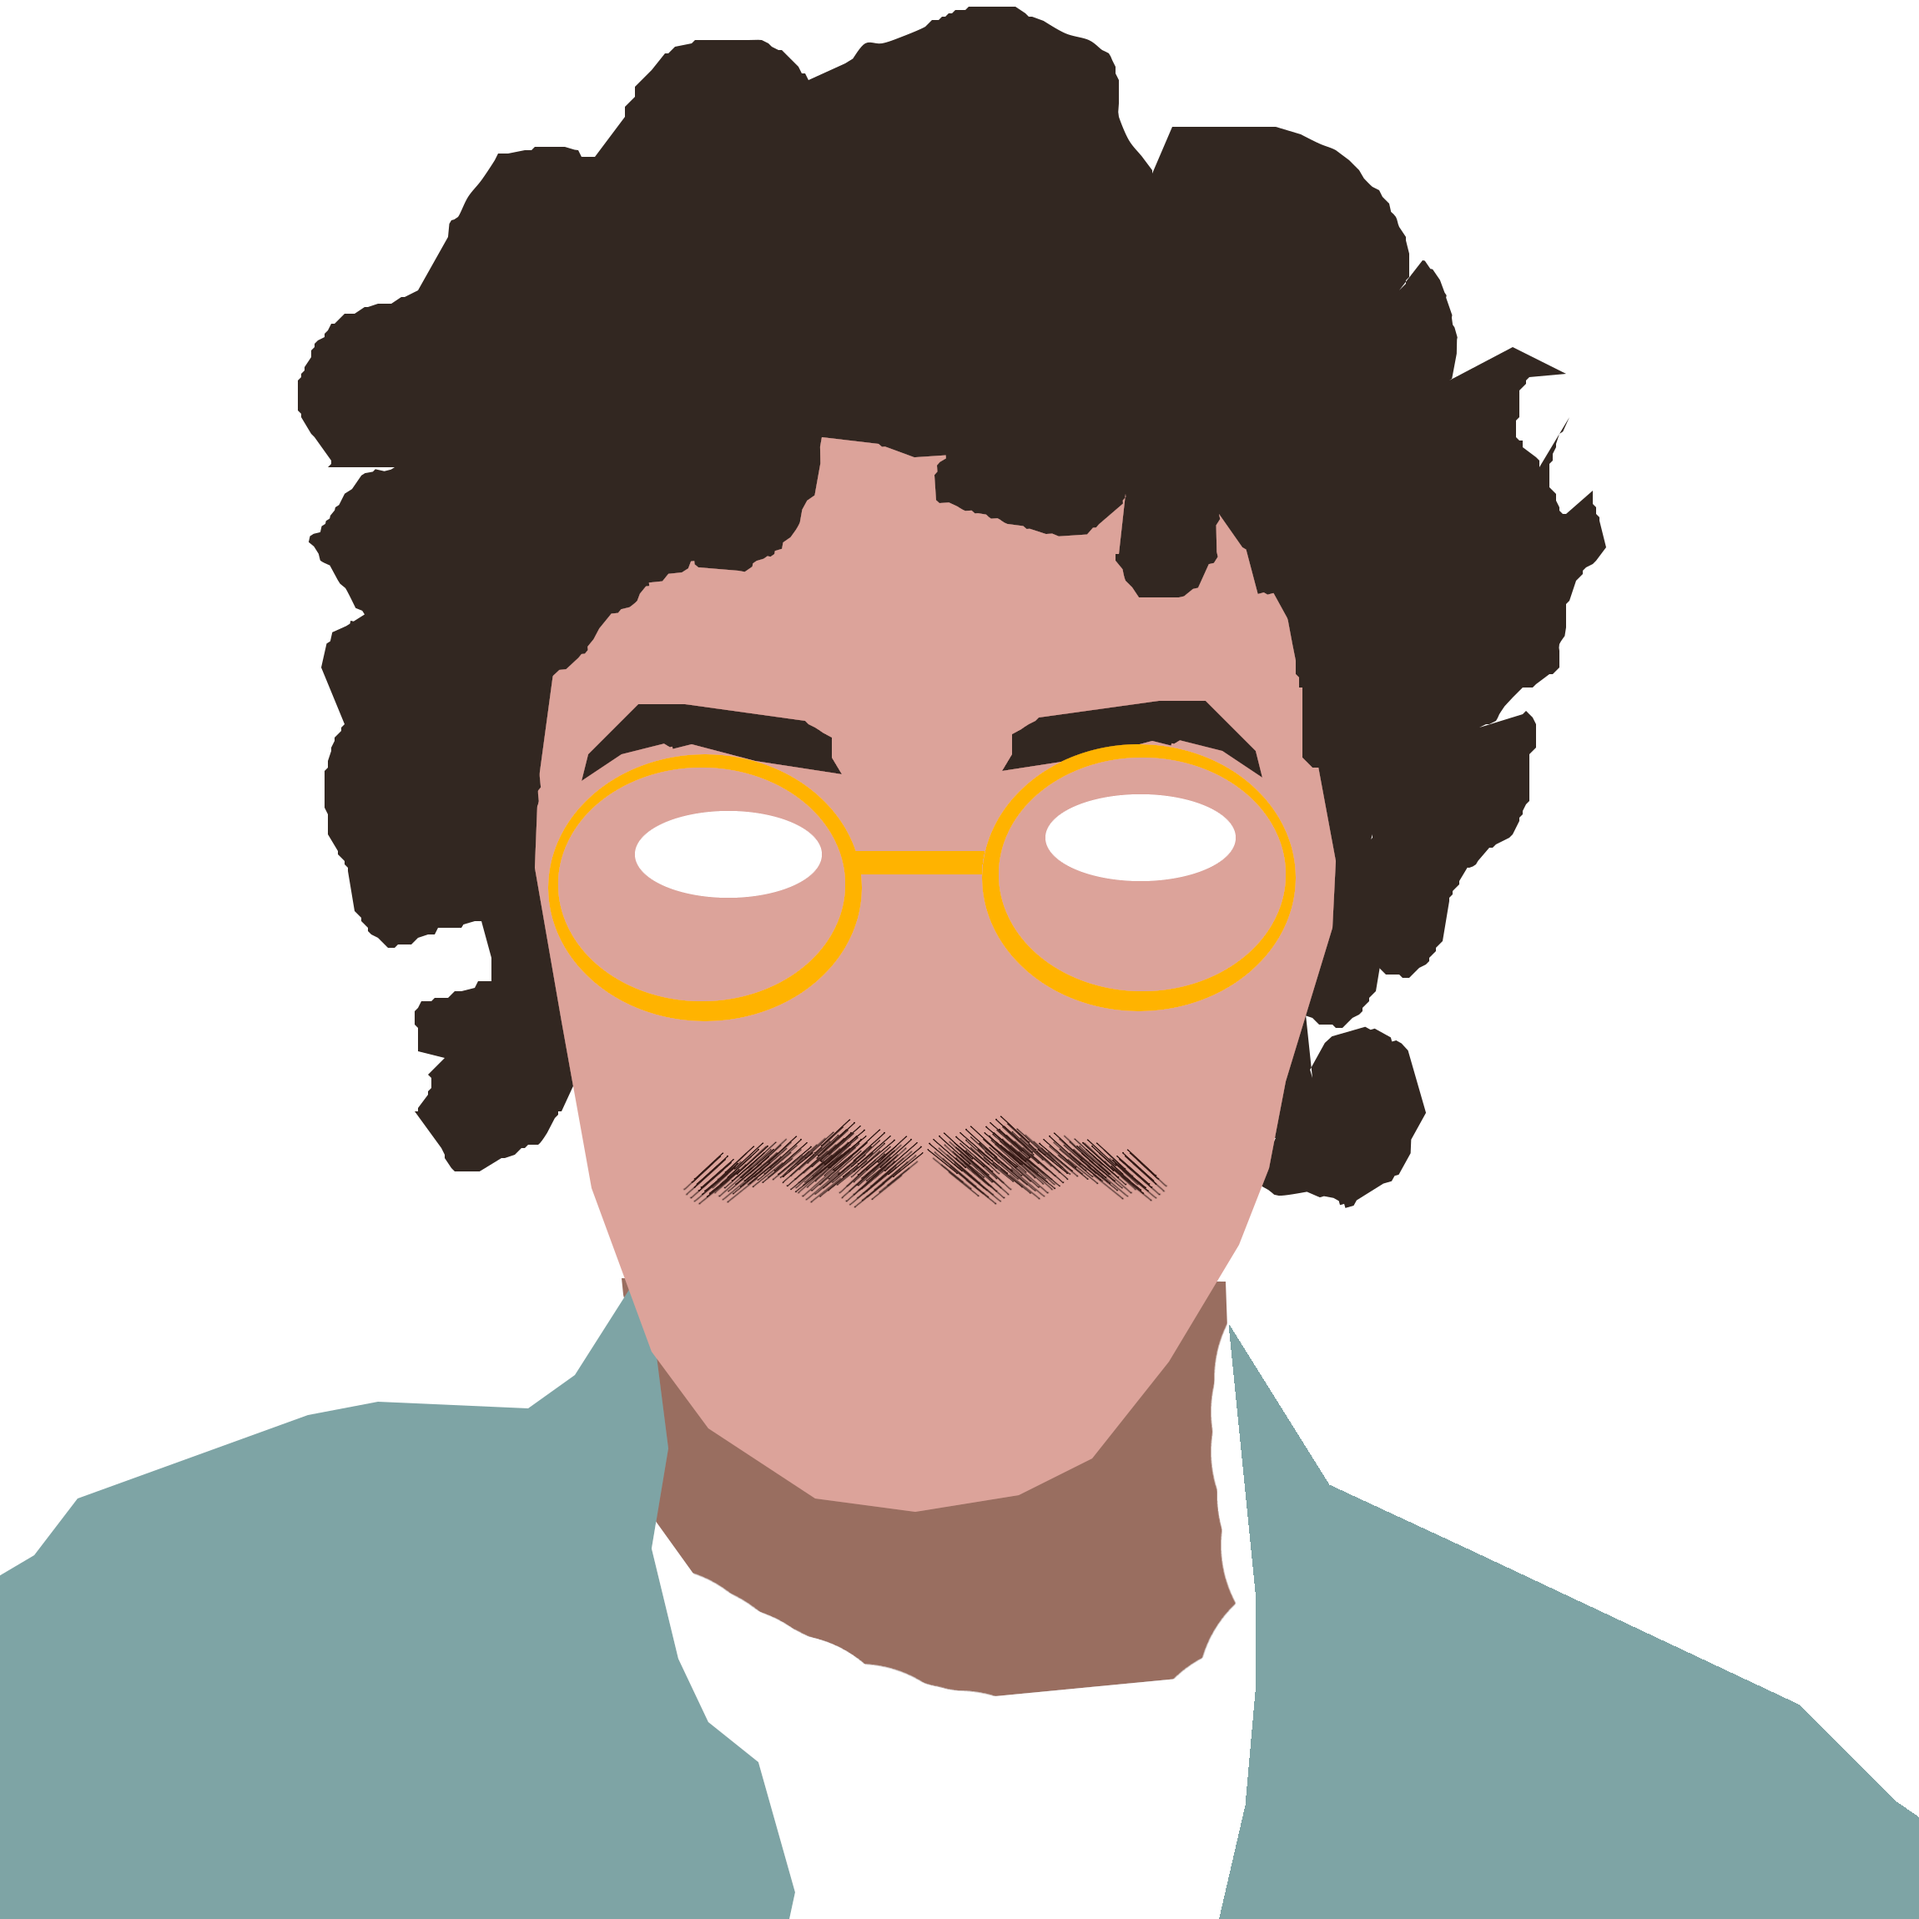
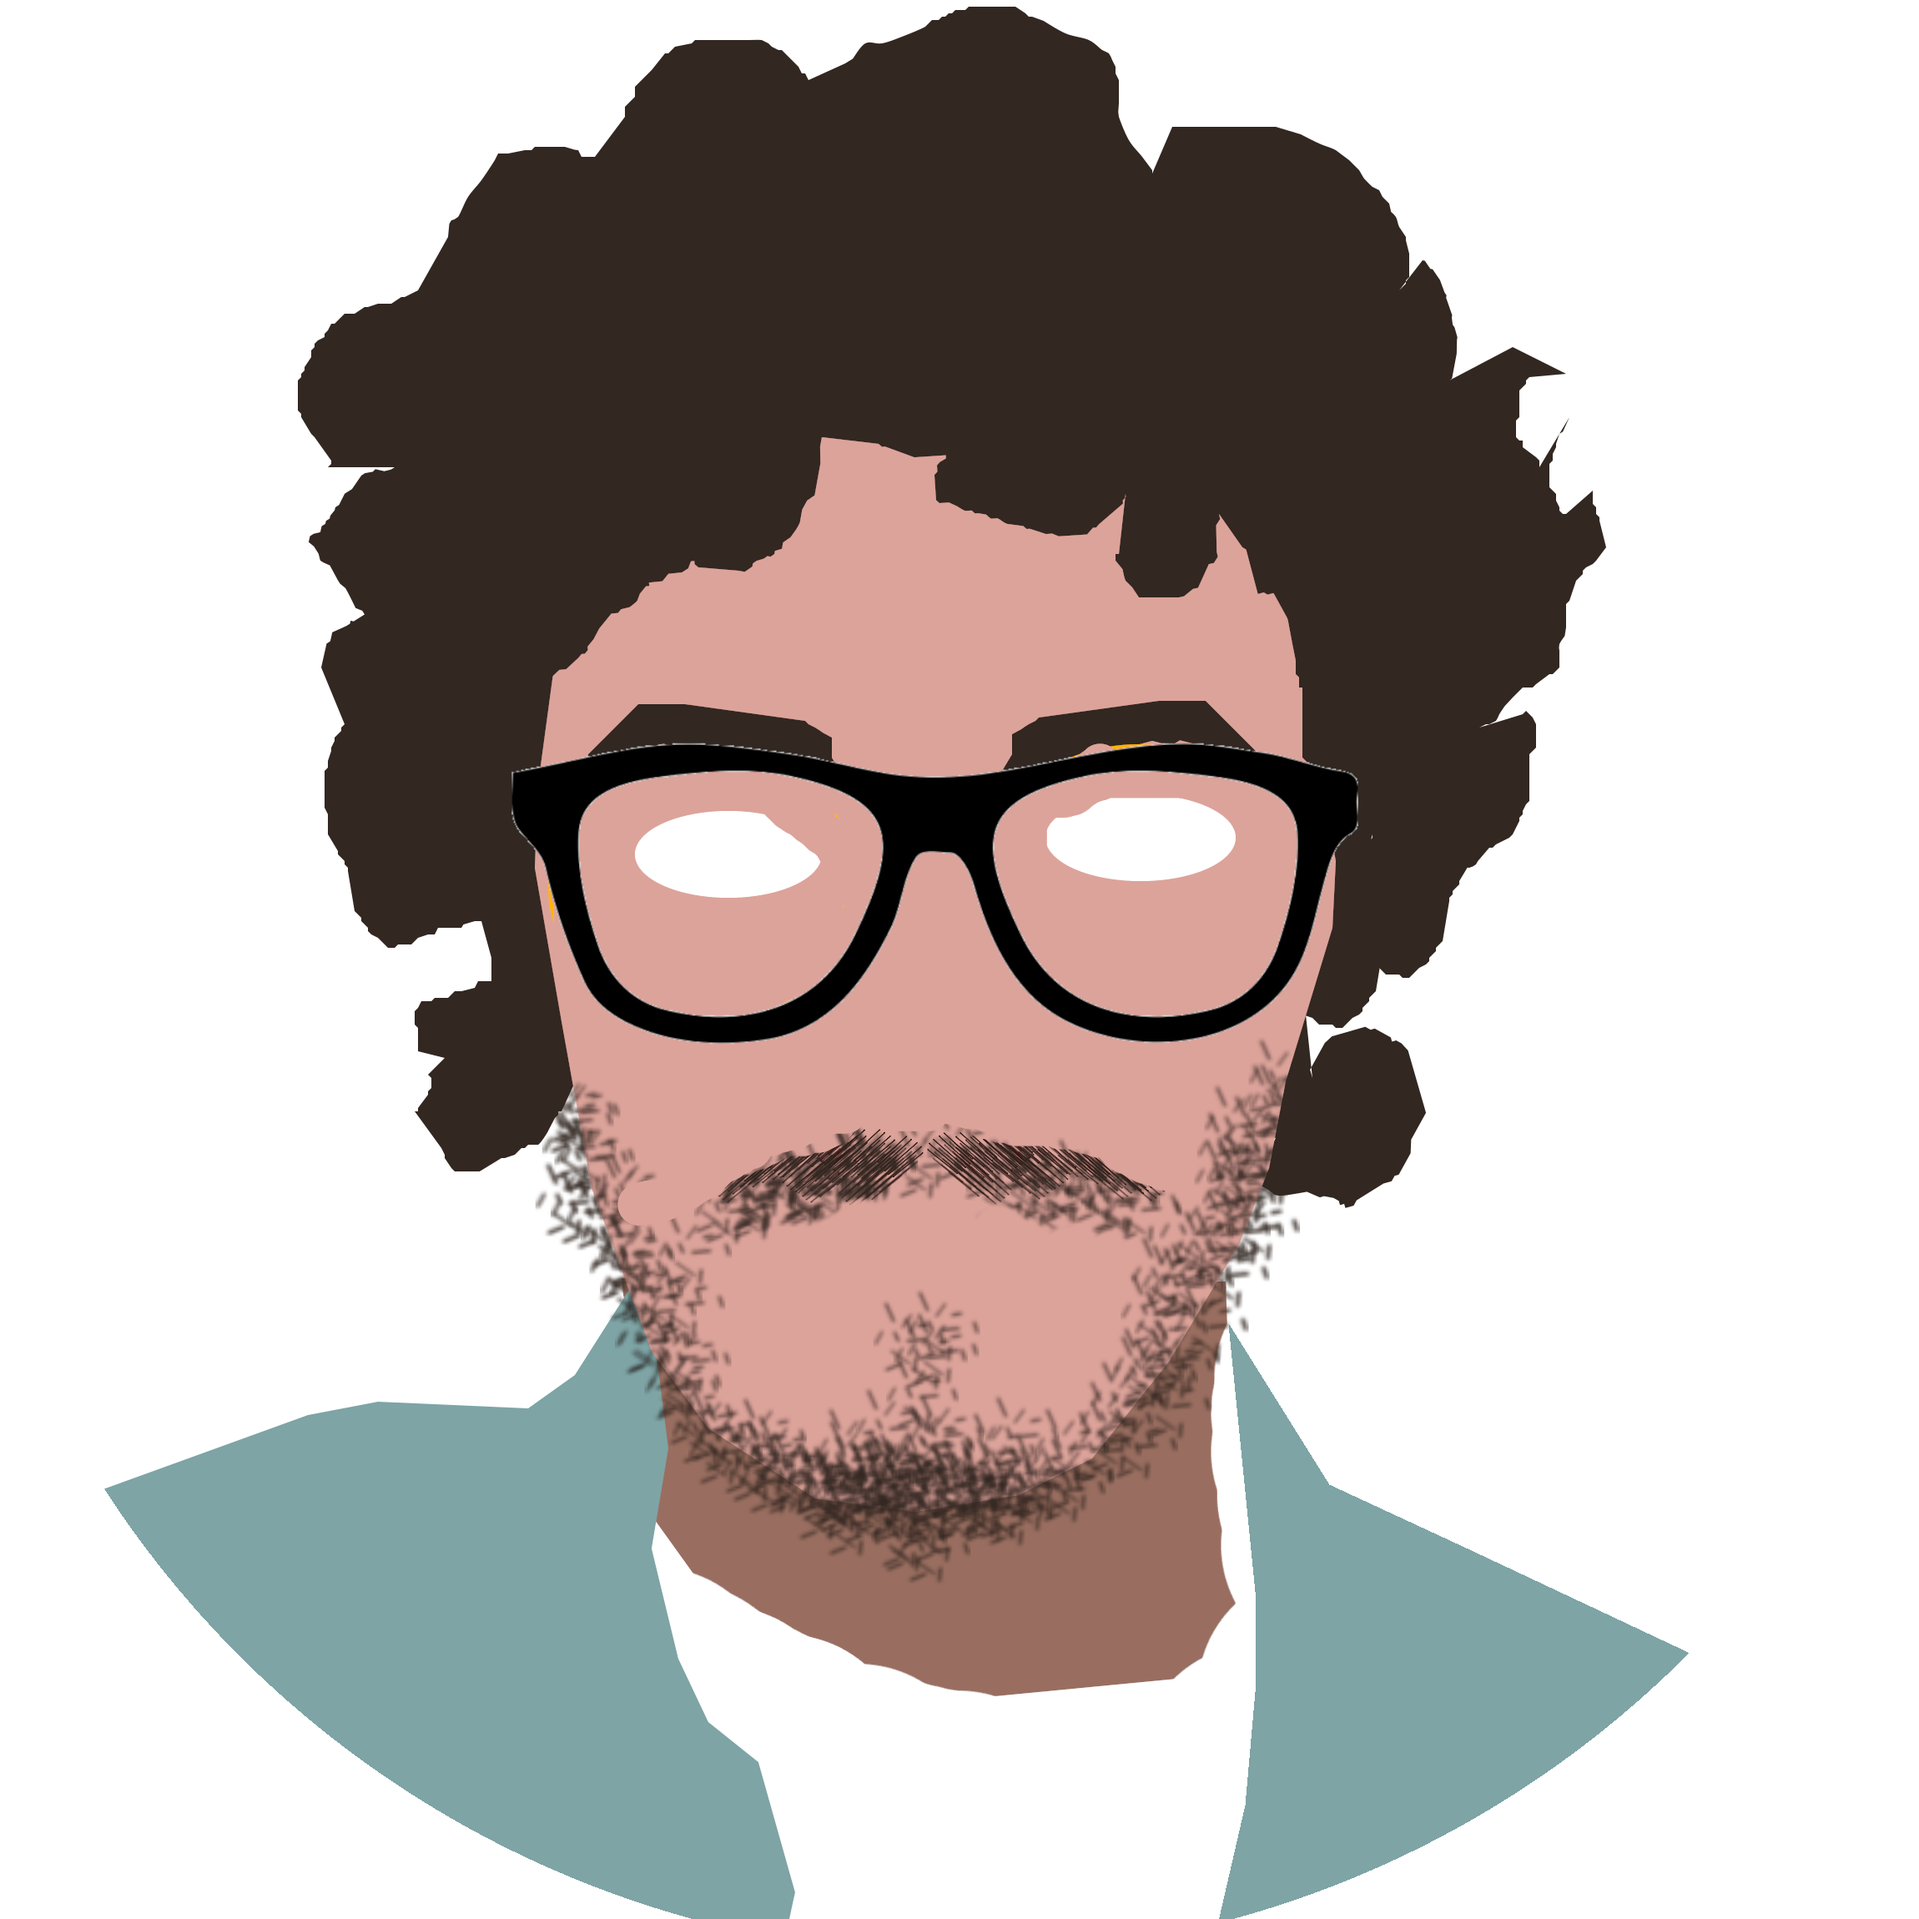
feat: large update

Changed region(s): [[0.247, 0.3704, 0.71, 0.8335], [0.0, 0.7717, 0.3704, 1.0], [0.6483, 0.8643, 1.0, 1.0]]

diff --git a/pelicanconf.py b/pelicanconf.py
@@ -17,9 +17,9 @@ AUTHOR_FEED_RSS = None
 
 # Blogroll
 LINKS = (
-    ("Publications", "#"),
-    ("Projects", "#"),
-    ("Courses", "#"),
+    ("Publications", "/category/publications.html"),
+    ("Projects", "/category/projects.html"),
+    ("Courses", "/pages/courses.html"),
     ("Resume", "/pages/resume.html"),
 )
 

diff --git a/content/test_project.md b/content/test_project.md
@@ -1,0 +1,17 @@
+Title: VAE Synth for Ossia Score
+Date: 2023-08-31
+Category: Projects
+
+## A Pytorch based Variational Auto-Encoder for Ossia Score.
+### Context
+This work was conducted during my 2023 Summer Internship at Chalmers University, under the supervision of Kivanç Tatar. The goal was to generate sound using ML Pytorch models in a DAW or intermedia sequencer such as Ossia Score. Initially, I figured I´d try to run some python code inside PureData which would in turn be embedded inside Ossia Score. Stepping forward, I ended up developping an addon-on for Ossiam Score to use Pytorch VAEs to produce sound in real-time.
+
+### Conducted work
+
+I developed an object which allows running Python code in two steps: the loading part and the running part. The heavy and loading work should be done in the loading part and the sound synthesis should be put in the running part. This solution isn't Pytorch specific, it rather allows the user to use Python code to generate sound.
+
+To make it more accessible, I created a Docker image: you can find guidelines on how to use it [here](https://github.com/grybouilli/docker-for-ossia/tree/master)
+
+![](/images/vae_synth_demo.gif)
+
+The repo to the ossia-score addon can be found [here](https://github.com/grybouilli/VAE_Synth/)

diff --git a/content/spinning_display.md b/content/spinning_display.md
@@ -1,0 +1,24 @@
+Title: Spinning Display (PoV)
+Date: 2023-12-31
+Category: Projects
+
+## An implementation for a Persistence of Vision effect on the Atmega 328p.
+
+<br>
+This is a scholar project. Three main goals were set : to display an analog clock, to display images and to display a digital clock. More details about the expectations [here](https://gregwar.com/embedded_system/project.html).
+
+<table>
+<tr>
+<th>  </th>
+<th>  </th>
+</tr>
+<tr>
+<td style="padding-right: 20px;">
+<img src="/images/pov_spinning_demo.gif" width=400px>
+</td>
+<td>
+Our team of three managed to implement all three solutions. For image display, the images bytes are sent using bluetooth. For the digital clock, the image display solution cna be used, or, one can flash a program with hard coded digits images. 
+The repo to the project can be found <a href="https://github.com/grybouilli/spinning-display"> here </a>
+</td>
+</tr>
+</table>

diff --git a/content/connected_aquariums.md b/content/connected_aquariums.md
@@ -1,0 +1,13 @@
+Title: Aquarium Network
+Date: 2023-05-30
+Category: Projects
+
+## Let's go fishing
+
+This is a scholar project. The goal was to implement the foundations for connected virtual aquariums. The idea is that there is an aquarium, handled by the TCP/IP server, and clients can connect to the server to get views on parts of the aquarium. When using several computers, one can put the monitors side by side and observe the fishes swim from one screen to the other ! The project is implemented using C/C++. Click on the image below to go to the repo of the code.
+
+<p align="center">
+    <a href="https://github.com/grybouilli/AquariumNetwork">
+        <img src="/images/demo_aquarium.gif"/>
+    </a>
+</p>

diff --git a/content/placeholder.md b/content/placeholder.md
@@ -1,0 +1,5 @@
+Title: No published work yet...
+Date: 2010-12-03 10:20
+Category: Publications
+
+This a placeholder so that this webpage exists. As of today, I haven't published any work yet. Hopefully, this page will fill up soon !

diff --git a/content/pages/courses.md b/content/pages/courses.md
@@ -1,0 +1,5 @@
+Title: Courses
+
+Huh ho... This page is **empty**...
+
+Well I've only started my PhD in March 2026, so I haven't had the chance to teach anything yet. This will fill up soon, rest assured !
